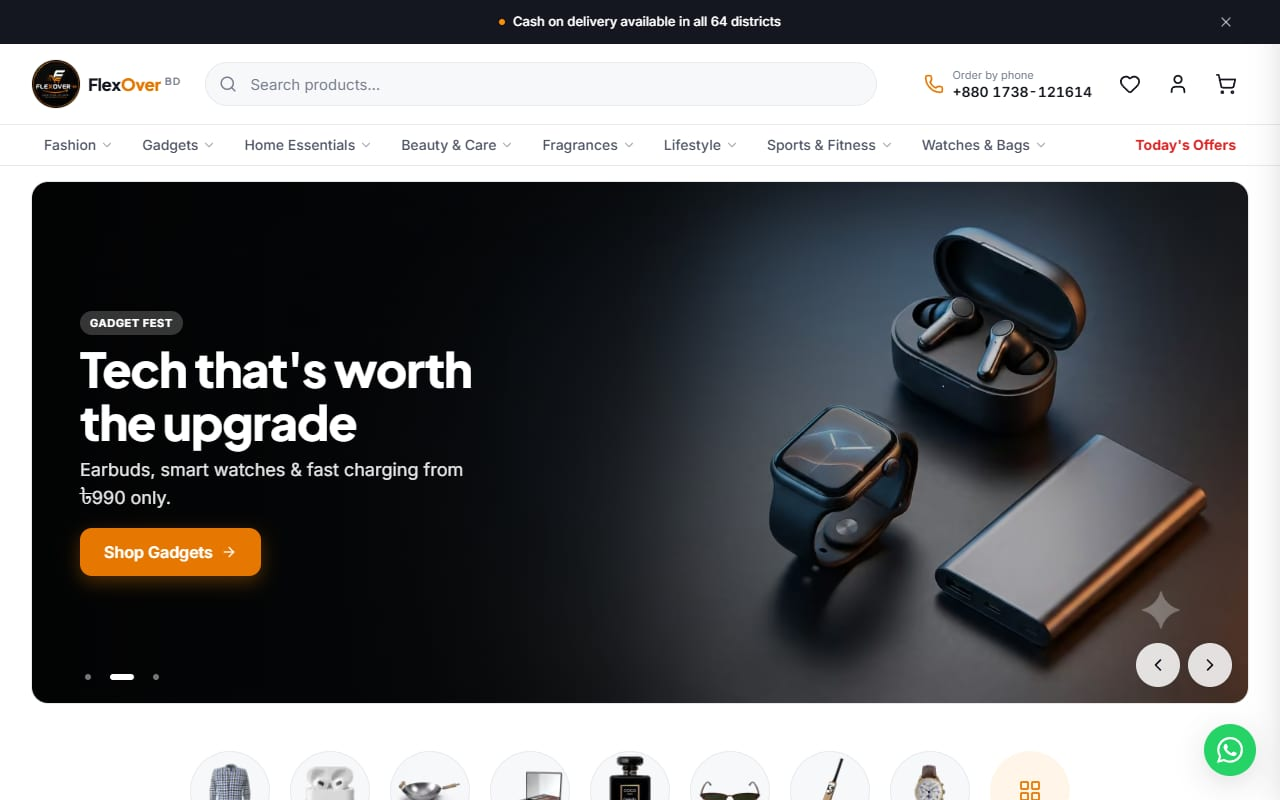
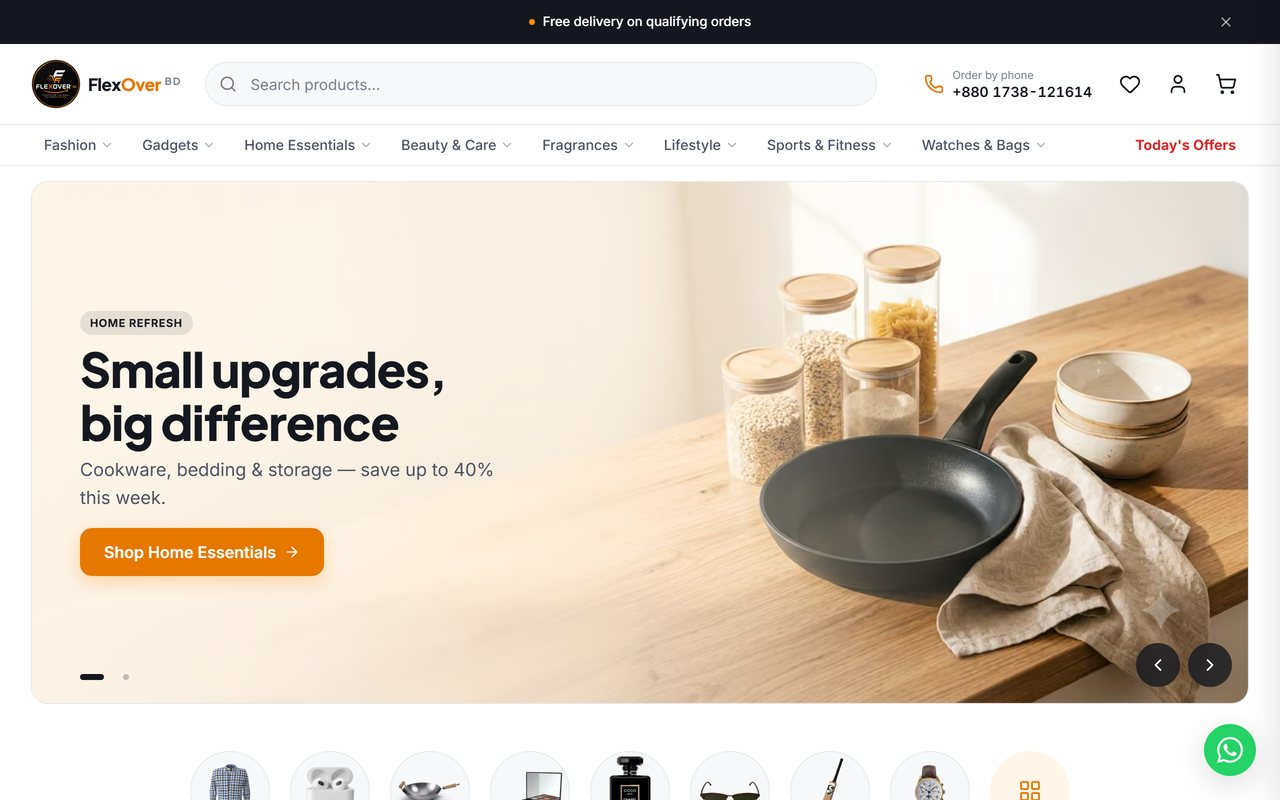
Update: correct portfolio facts, remove YT Shop India, use Arrowbin name
- Portfolio blurbs now say what each project really is (only NBAF and
  Maneel Club were WordPress rebuilds); new Silent Lifestyle BD and
  FlexOver BD screenshots
- YT Shop India removed from the portfolio and service pages
- Public name is Arrowbin (not Arrowbin LLC) in schema, footer, hero,
  metadata, llms.txt and emails
- Ignore work.txt and raw case-study captures

diff --git a/src/lib/portfolio.ts b/src/lib/portfolio.ts
@@ -1,7 +1,9 @@
 /**
  * Portfolio projects (linked to live sites) and the secondary client list.
- * Used by the /work page and the home-page portfolio preview. No screenshots were
- * provided, so cards render styled letter-mark/gradient placeholders that link out.
+ * Used by the /work page and the home-page portfolio preview. Each card shows a
+ * 1280×800 screenshot of the live site (retake it when the site changes, then
+ * run `node scripts/generate-blur.mjs`); the letter mark and gradient show while
+ * it loads. Facts per project: docs/seo/00-brief/portfolio-facts.md.
  */
 
 export type Project = {
@@ -31,8 +33,8 @@ export const projects: Project[] = [
     url: "https://silentlifestylebd.com/",
     image: "/portfolio/silent-lifestyle-bd.jpg",
     blurb:
-      "A men's and women's fashion storefront for Bangladesh, built around cash-on-delivery ordering with phone confirmation, alongside bKash, Nagad and card payments.",
-    result: "Cash-on-delivery ordering live nationwide",
+      "A Dhaka fashion brand with physical showrooms and no website. We built its first online store from scratch on Next.js, with a custom admin and phone-confirmed cash on delivery.",
+    result: "First online store, built from scratch with its own admin",
     tags: ["E-commerce", "Fashion", "Storefront"],
     mark: "Sl",
     gradient: "from-slate-500 to-stone-700",
@@ -42,8 +44,8 @@ export const projects: Project[] = [
     url: "https://www.flexoverbd.com/",
     image: "/portfolio/flexover-bd.jpg",
     blurb:
-      "A multi-category online store covering fashion, gadgets, home and beauty, with cash on delivery, easy returns and nationwide delivery.",
-    result: "Rebuilt from WordPress as a multi-category Next.js store",
+      "A brand-new business with no website. We built its multi-category store from scratch on Next.js, with a custom admin for orders, stock alerts, coupons and flash sales.",
+    result: "Built from scratch: storefront plus custom admin",
     tags: ["E-commerce", "Retail", "UI/UX"],
     mark: "Fo",
     gradient: "from-orange-500 to-red-600",
@@ -53,8 +55,8 @@ export const projects: Project[] = [
     url: "https://nbafl.net/",
     image: "/portfolio/north-bengal-agro-farms.jpg",
     blurb:
-      "Corporate and product website for an organic agro-export company, combining its brand story with online ordering.",
-    result: "Rebuilt from WordPress with online ordering built in",
+      "An organic farm in Rajshahi that had a basic WordPress site. We rebuilt it on Next.js with a shop, bKash, Nagad and Rocket payment checks, a blog and a custom admin.",
+    result: "Rebuilt from WordPress with online ordering and payment checks",
     tags: ["Corporate", "E-commerce"],
     mark: "Nb",
     gradient: "from-indigo-500 to-fuchsia-500",
@@ -64,8 +66,8 @@ export const projects: Project[] = [
     url: "https://maneelclub.com/",
     image: "/portfolio/maneel-club.jpg",
     blurb:
-      "An e-commerce storefront for a men's fashion brand, built mobile-first so shoppers can browse and check out quickly on a phone.",
-    result: "Rebuilt from WordPress as a mobile-first Next.js store",
+      "An online men's fashion brand that had a basic WordPress store. We rebuilt it on Next.js with a custom admin: stock audits, coupons, delivery cities and fake-order blocking.",
+    result: "10,000+ orders through the new store since February 2026",
     tags: ["E-commerce", "Fashion"],
     mark: "Mc",
     gradient: "from-amber-500 to-orange-600",
@@ -75,9 +77,9 @@ export const projects: Project[] = [
     url: "https://brandingly.agency/",
     image: "/portfolio/brandingly.jpg",
     blurb:
-      "A website for a full-service branding and marketing agency, tuned for fast load times and steady lead generation.",
-    result: "Rebuilt from WordPress on Next.js for fast page loads",
-    tags: ["Agency", "Web Design", "SEO"],
+      "A full-service branding and marketing agency in Dhaka. We redesigned its basic WordPress site with a new UI/UX, and kept it on WordPress.",
+    result: "Redesigned with a new UI/UX on WordPress",
+    tags: ["Agency", "Web Design", "WordPress"],
     mark: "Br",
     gradient: "from-rose-500 to-pink-600",
   },
@@ -86,22 +88,11 @@ export const projects: Project[] = [
     url: "https://gtegoyna.com.bd/",
     image: "/portfolio/gtegoyna.jpg",
     blurb:
-      "A handcrafted-jewelry storefront for traditional Bangladeshi pieces, with a mobile-first checkout flow.",
-    result: "Mobile-first Next.js store with a streamlined checkout",
-    tags: ["E-commerce", "Storefront"],
+      "A well-known Bangladeshi jewellery brand with no website. We built its first online store on Shopify, and we're now rebuilding it on Next.js with Android and iOS apps.",
+    result: "First online store, launched on Shopify",
+    tags: ["E-commerce", "Storefront", "Shopify"],
     mark: "গ",
     gradient: "from-yellow-500 to-amber-600",
-  },
-  {
-    name: "YT Shop India",
-    url: "https://ytshopindia.com/",
-    image: "/portfolio/yt-shop-india.jpg",
-    blurb:
-      "An online marketplace for buying and selling YouTube channels. Listings are verified and payments run through a secure transaction flow.",
-    result: "Marketplace with verified listings and secure payments",
-    tags: ["Marketplace", "E-commerce"],
-    mark: "Yt",
-    gradient: "from-red-500 to-rose-600",
   },
   {
     name: "OutNet",

diff --git a/src/lib/services.ts b/src/lib/services.ts
@@ -1015,7 +1015,11 @@ export const serviceExtras: Record<string, ServiceExtras> = {
       "Companies that need their systems to talk to each other",
       "Founders building a platform they want to own outright",
     ],
-    relatedWork: ["North Bengal Agro Farms", "YT Shop India", "FlexOver BD"],
+    relatedWork: [
+      "North Bengal Agro Farms",
+      "Silent Lifestyle BD",
+      "FlexOver BD",
+    ],
     relatedPosts: [
       "vibe-coded-app-production-ready",
       "how-much-does-custom-software-development-cost",
@@ -1077,7 +1081,7 @@ export const serviceExtras: Record<string, ServiceExtras> = {
       "Sellers who need custom checkout, pricing or subscriptions",
       "Businesses scaling catalog, traffic or fulfilment",
     ],
-    relatedWork: ["Maneel Club", "গ তে গয়না", "YT Shop India"],
+    relatedWork: ["Maneel Club", "গ তে গয়না", "Silent Lifestyle BD"],
     relatedPosts: [
       "shopify-vs-custom-ecommerce",
       "payment-gateway-integration-bangladesh",
@@ -1139,7 +1143,7 @@ export const serviceExtras: Record<string, ServiceExtras> = {
       "Teams that need offline, push or device features",
       "Founders validating a mobile-first MVP",
     ],
-    relatedWork: ["Silent Lifestyle BD", "Maneel Club", "YT Shop India"],
+    relatedWork: ["Silent Lifestyle BD", "Maneel Club", "গ তে গয়না"],
     relatedPosts: [
       "mvp-development-cost",
       "how-long-does-it-take-to-build-an-mvp",
@@ -1200,7 +1204,11 @@ export const serviceExtras: Record<string, ServiceExtras> = {
       "Products scaling from their first users to many",
       "Companies turning an internal tool into a product",
     ],
-    relatedWork: ["YT Shop India", "FlexOver BD", "North Bengal Agro Farms"],
+    relatedWork: [
+      "Silent Lifestyle BD",
+      "FlexOver BD",
+      "North Bengal Agro Farms",
+    ],
     relatedPosts: [
       "saas-development-cost",
       "mvp-development-cost",
@@ -1323,7 +1331,7 @@ export const serviceExtras: Record<string, ServiceExtras> = {
       "Companies adding AI features to a product",
       "Operations leaders chasing efficiency gains",
     ],
-    relatedWork: ["OutNet", "FlexOver BD", "YT Shop India"],
+    relatedWork: ["OutNet", "FlexOver BD", "Silent Lifestyle BD"],
     relatedPosts: [
       "ai-automation-for-small-business",
       "ai-agent-cost-small-business",
@@ -1387,7 +1395,7 @@ export const serviceExtras: Record<string, ServiceExtras> = {
     relatedWork: [
       "North Bengal Agro Farms",
       "Silent Lifestyle BD",
-      "YT Shop India",
+      "Brandingly",
     ],
     relatedPosts: [
       "wordpress-to-nextjs-migration",

diff --git a/src/lib/posts/wordpress-to-nextjs-migration.ts b/src/lib/posts/wordpress-to-nextjs-migration.ts
@@ -23,7 +23,7 @@ export const post: Post = {
   readingTime: "15 min read",
   category: "Guides",
   excerpt:
-    "Every live site in our portfolio started on WordPress and now runs on Next.js, and so does arrowbin.com. This is the process we follow, the SEO details that protect rankings, and when a move isn't worth it.",
+    "We've moved client sites like Maneel Club and North Bengal Agro Farms from WordPress to Next.js, and arrowbin.com too. This is the process we follow, the SEO details that protect rankings, and when a move isn't worth it.",
   image: {
     src: `${DIR}/cover.webp`,
     alt: "Mockup of a rebuilt Next.js storefront in a browser, beside a redirect map of old WordPress URLs and a terminal showing 308 and 410 responses",
@@ -38,7 +38,7 @@ export const post: Post = {
     },
     {
       type: "p",
-      text: "We've made this move for every live site in our portfolio (you can browse the [sites we have moved from WordPress to Next.js](/work)), and for arrowbin.com itself, which replaced an older WordPress site. Below is the process we follow, including the cases where I'd tell you to stay put.",
+      text: "We've made this move for client sites such as Maneel Club and North Bengal Agro Farms (both on [our work page](/work)), and for arrowbin.com itself, which replaced an older WordPress site. Below is the process we follow, including the cases where I'd tell you to stay put.",
     },
     {
       type: "p",

diff --git a/src/app/llms.txt/content.ts b/src/app/llms.txt/content.ts
@@ -19,7 +19,7 @@ export const summary = `${site.name} is a software development company for start
 
 // Founder-led and "you talk to the people building it": /about hero and home
 // page description. 100% code ownership: home "Numbers" band.
-export const intro = `${site.name} (${site.legalName}) is founder-led: ${author.name} is the founder and lead engineer, so clients talk to the people who build their product. Clients own all of their source code. To start a project, book a free 30-minute call or send a short project brief (see "Start a project" below).`;
+export const intro = `${site.name} is founder-led: ${author.name} is the founder and lead engineer, so clients talk to the people who build their product. Clients own all of their source code. To start a project, book a free 30-minute call or send a short project brief (see "Start a project" below).`;
 
 /** Markdown links to every service page, in site order. */
 const serviceLinks = services
@@ -39,7 +39,7 @@ export function keyFacts(): string {
   return [
     "Key facts:",
     "",
-    `- Company: ${site.legalName}, a founder-led software development company for startups and SMBs`,
+    `- Company: ${site.name}, a founder-led software development company for startups and SMBs`,
     `- Founder: ${author.name}, founder and lead engineer ([about](${siteUrl}/about))`,
     `- Founded: ${FOUNDED}`,
     "- Clients: startups and SMBs worldwide",

diff --git a/src/lib/posts/payment-gateway-integration-bangladesh.ts b/src/lib/posts/payment-gateway-integration-bangladesh.ts
@@ -105,7 +105,7 @@ export const post: Post = {
     },
     {
       type: "p",
-      text: 'Stores we\'ve rebuilt show the same mix at checkout. Silent Lifestyle BD\'s footer reads "Pay on delivery • bKash • Nagad • Card". FlexOver BD lists six options under "We accept", with Rocket, Visa and Mastercard among them. গ তে গয়না puts "Cash On Delivery Available" in its header. You can browse them among the [Bangladeshi stores we have rebuilt](/work).',
+      text: 'Stores we\'ve built show the same mix at checkout. Silent Lifestyle BD\'s footer reads "Pay on delivery • bKash • Nagad • Card". FlexOver BD lists six options under "We accept", with Rocket, Visa and Mastercard among them. গ তে গয়না puts "Cash On Delivery Available" in its header. You can browse them among the [Bangladeshi stores we have built](/work).',
     },
 
     {

diff --git a/src/lib/email/templates.ts b/src/lib/email/templates.ts
@@ -234,7 +234,7 @@ ${button(site.bookingUrl, "Book a free 30-min call")}
     eyebrow: "Brief received",
     title: `Thanks, <span style="color:${C.ultra};">${esc(first)}.</span>`,
     body,
-    footer: `You're getting this because you sent a brief on <a href="${site.url}" style="color:${C.ink2};">arrowbin.com</a>. Just reply to this email if you want to add anything.<br>${esc(site.legalName)} · <a href="${site.url}/privacy" style="color:${C.ink2};">Privacy policy</a>`,
+    footer: `You're getting this because you sent a brief on <a href="${site.url}" style="color:${C.ink2};">arrowbin.com</a>. Just reply to this email if you want to add anything.<br>${esc(site.name)} · <a href="${site.url}/privacy" style="color:${C.ink2};">Privacy policy</a>`,
   });
 
   const text = [

diff --git a/src/lib/posts/shopify-vs-custom-ecommerce.ts b/src/lib/posts/shopify-vs-custom-ecommerce.ts
@@ -38,7 +38,7 @@ export const post: Post = {
     },
     {
       type: "p",
-      text: "Some context on where I'm coming from. At Arrowbin we build custom stores, mostly WordPress or WooCommerce sites rebuilt on Next.js, such as FlexOver BD and Maneel Club. We don't have a Shopify store in our public portfolio. So you'd expect me to push custom.",
+      text: "Some context on where I'm coming from. At Arrowbin we've built both. Most of our stores are custom Next.js builds, such as Maneel Club (moved off WordPress) and FlexOver BD (built from scratch), and we built গ তে গয়না's first store on Shopify. Custom is the bigger project for us, so you'd expect me to push it.",
     },
     { type: "p", text: "For most new stores, I won't." },
 

diff --git a/src/app/layout.tsx b/src/app/layout.tsx
@@ -100,9 +100,9 @@ export const metadata: Metadata = {
     "ai automation",
     "Arrowbin",
   ],
-  authors: [{ name: site.legalName, url: siteUrl }],
-  creator: site.legalName,
-  publisher: site.legalName,
+  authors: [{ name: site.name, url: siteUrl }],
+  creator: site.name,
+  publisher: site.name,
   // RSS auto-discovery only. No canonical here: a page without its own
   // `alternates` (the 404) would inherit the homepage canonical. Every
   // indexable page sets its canonical itself (see `pageShare` in lib/metadata).

diff --git a/src/lib/schema.ts b/src/lib/schema.ts
@@ -103,8 +103,9 @@ export function websiteSchema() {
     "@id": WEBSITE_ID,
     url: siteUrl,
     name: site.name,
-    // Google's site-name guidance: other names the site is known by.
-    alternateName: site.legalName,
+    // Google's site-name guidance: a fallback if it can't use `name`. The domain
+    // (lowercase), not the legal name, so Google never titles the site "Arrowbin LLC".
+    alternateName: "arrowbin.com",
     description: site.description,
     inLanguage: "en",
     publisher: { "@id": ORG_ID },

diff --git a/src/lib/site.ts b/src/lib/site.ts
@@ -7,7 +7,10 @@
 export const siteUrl = "https://arrowbin.com";
 
 export const site = {
+  /** The public name, everywhere: titles, footer, schema `name`, profiles. */
   name: "Arrowbin",
+  /** The legal entity. Only where the law needs it (Terms, Privacy, schema
+   * `legalName`); never as a display name. Change it here if the entity changes. */
   legalName: "Arrowbin LLC",
   tagline: "Software Development Company",
   /** The brand line used on the homepage hero and in the footer. */

diff --git a/src/components/layout/Footer.tsx b/src/components/layout/Footer.tsx
@@ -105,7 +105,7 @@ export function Footer() {
 
         <div className="flex flex-col gap-3 py-6 text-sm text-ink-2 sm:flex-row sm:items-center sm:justify-between">
           <p>
-            © {year} {site.legalName}. All rights reserved.
+            © {year} {site.name}. All rights reserved.
           </p>
           <p className="label">Designed &amp; engineered in-house</p>
         </div>

diff --git a/src/components/home/Hero.tsx b/src/components/home/Hero.tsx
@@ -164,9 +164,7 @@ export function Hero() {
               />
             </svg>
           </HeroScrollButton>
-          <span className="label max-sm:hidden">
-            © Arrowbin LLC · Worldwide
-          </span>
+          <span className="label max-sm:hidden">© Arrowbin · Worldwide</span>
         </div>
       </div>
     </section>
